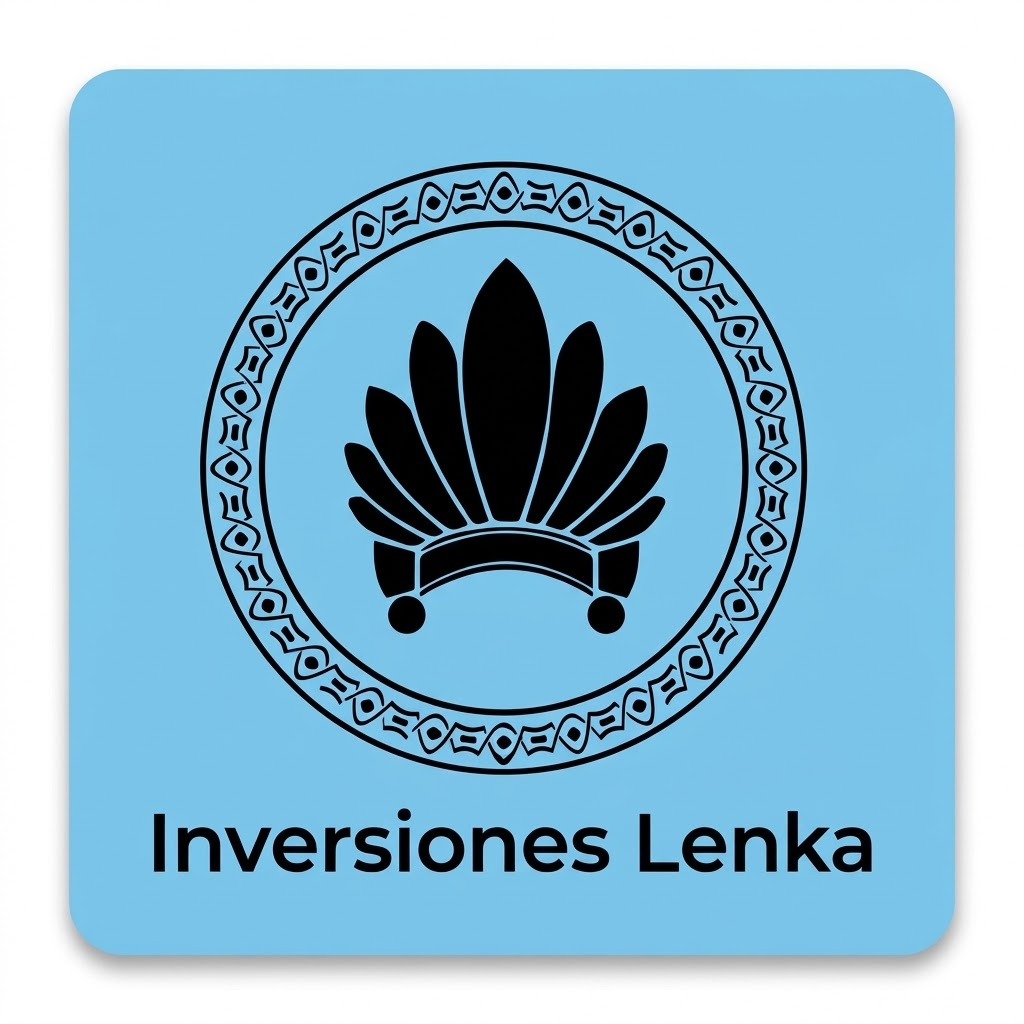
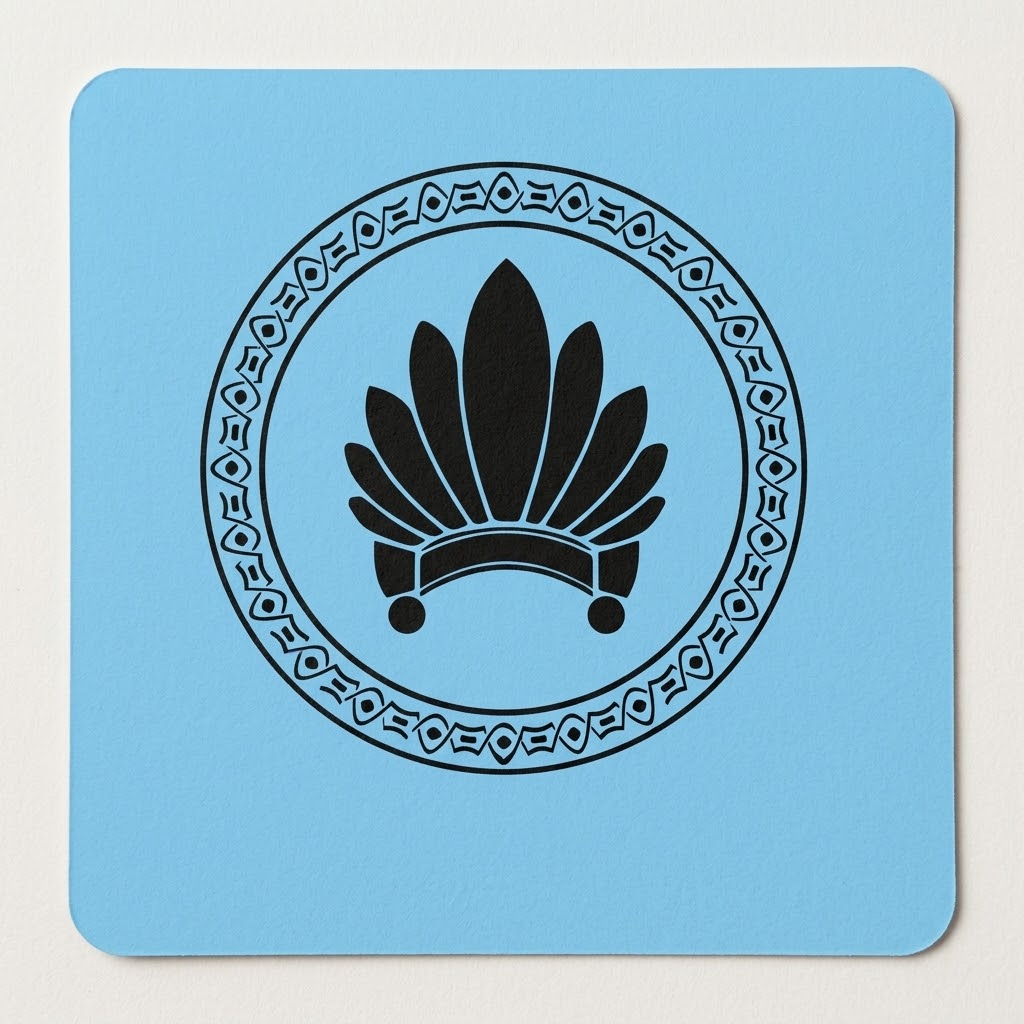
Lenka: conservar icono definitivo enviado por Luis, sin modificaciones

diff --git a/lenka_financiero/__manifest__.py b/lenka_financiero/__manifest__.py
@@ -1,6 +1,6 @@
 {
     'name': 'App Financiero Lenka',
-    'version': '18.0.1.0.1',
+    'version': '18.0.1.0.2',
     'category': 'Accounting/Finance',
     'summary': 'Cotizaciones, prestamos, financiamientos, arrendamientos y fondeo de Inversiones Lenka',
     'author': 'Grupo MEGATK',
